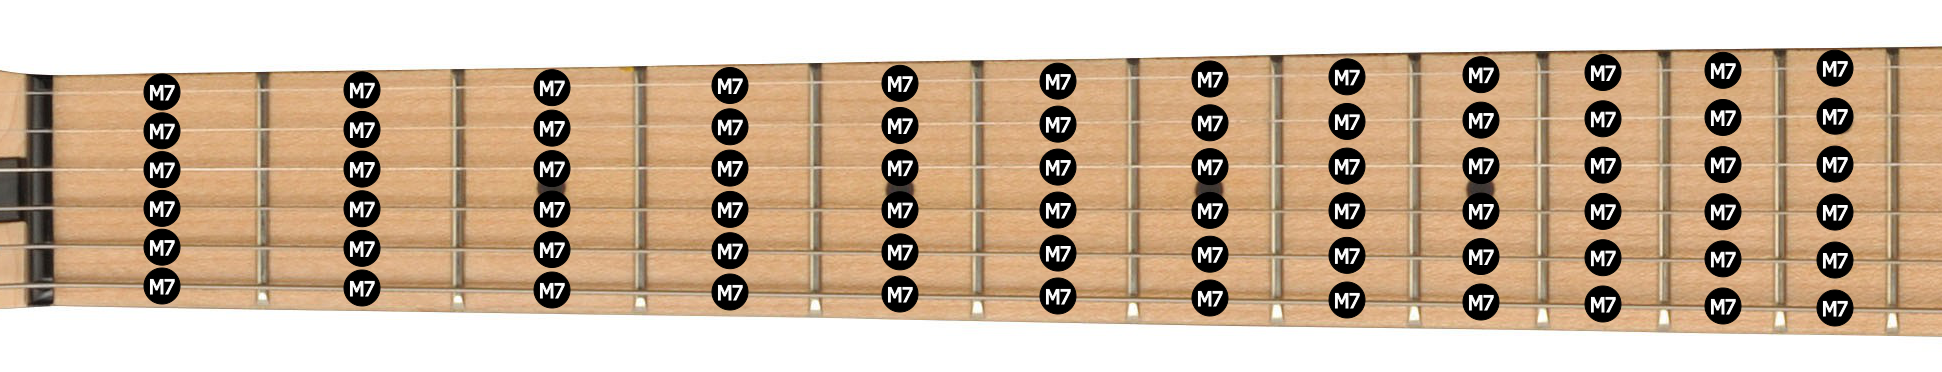
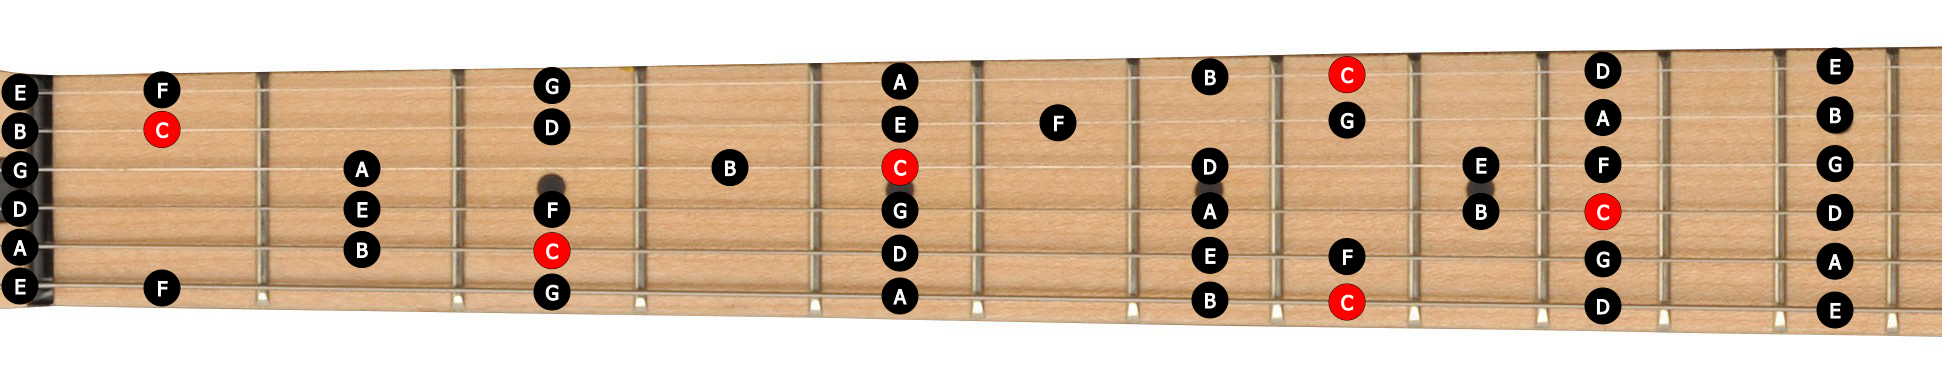
showing C major scale correctly

diff --git a/api.js b/api.js
@@ -3,12 +3,32 @@ const canvas = createCanvas(1942, 372)
 const ctx = canvas.getContext('2d')
 const fs = require('fs')
 
+var E = 0;
+var F = 1;
+var Gb = 2;
+var G = 3;
+var Ab = 4;
+var A = 5;
+var Bb = 6;
+var B = 7;
+var C = 8;
+var Db = 9;
+var D = 10;
+var Eb = 11;
+
+var chromatic = [ E, F, Gb, G, Ab, A, Bb, B, C, Db, D, Eb, E ];
+
+var intervals = [ "R", "m2", "2", "m3", "3", "P4", "4#", "P5", "m6", "6", "m7", "7", "R" ];
+var names = [ "E", "F", "F#", "G", "G#", "A", "A#", "B", "C", "C#", "D", "D#", "E" ];
+var tuning = [ E, A, D, G, B, E ];
+var display = [ C, D, E, F, G, A, B ];
+
 var stringTop1 = 92;
 var stringBottom1 = 286;
 var stringTop12 = 66;
 var stringBottom12 = 310;
 
-var frets = [ 162, 200, 190, 178, 170, 158, 152, 137, 134, 122, 120, 112]
+var frets = [ 20, 142, 200, 190, 178, 170, 158, 152, 137, 134, 122, 120, 112]
 
 var drawNote = (ctx, fret, string, isRoot, text) => {
   var black = "#000000";
@@ -48,12 +68,34 @@ var drawNote = (ctx, fret, string, isRoot, text) => {
   ctx.fillText(text, textX, textY)
 }
 
+var getNote = (tuning, fret, string) => {
+  var note = tuning[5 - string] + fret;
+  if (note >= 12) note -= 12;
+  return note;
+}
+
+var getNoteInterval = (root, note) => {
+  var n = note - root;
+  if (n < 0) n += 12;
+  return intervals[n];
+};
+
+var getNoteName = (note) => {
+  return names[note];
+}
+
 loadImage('./src/assets/fretboard-large.png').then((image) => {
   ctx.drawImage(image, 0, 0);
 
-  for (var fret = 0; fret < 12; fret++) {
+  for (var fret = 0; fret < 13; fret++) {
     for (var string = 0; string < 6; string++) {
-      drawNote(ctx, fret, string, false, 'M7');
+      var note = getNote(tuning, fret, string);
+      if (display.indexOf(note) > -1) {
+        var root = display[0];
+        // var text = getNoteInterval(root, note);
+        var text = getNoteName(note);
+        drawNote(ctx, fret, string, root === note, text);
+      }
     }
   }
 
